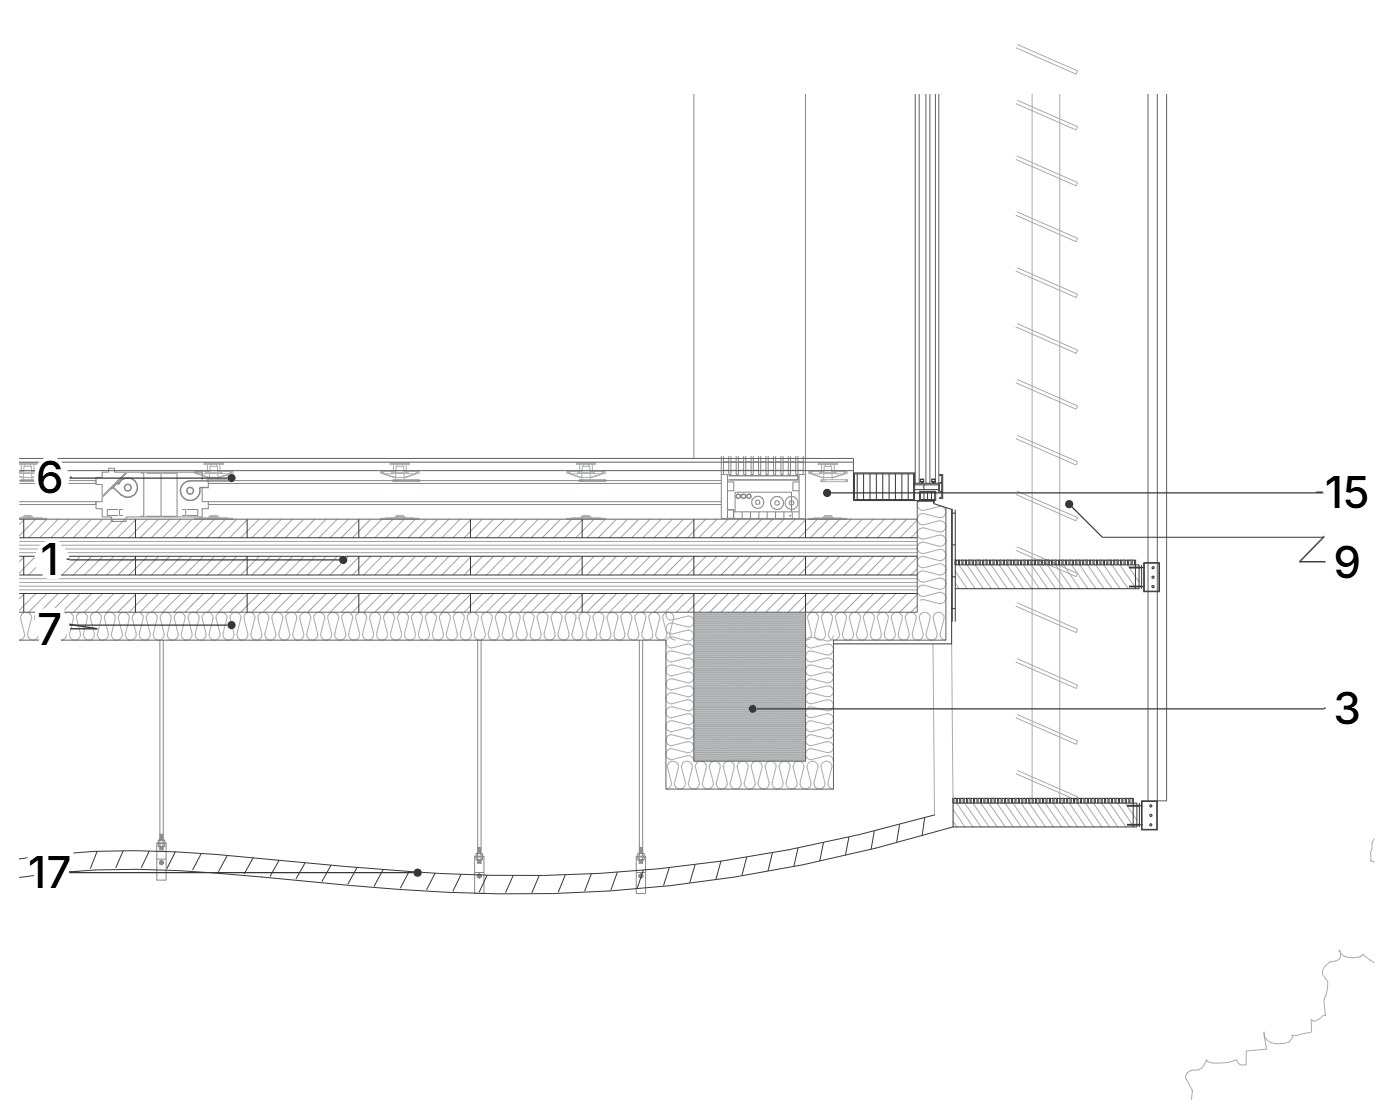
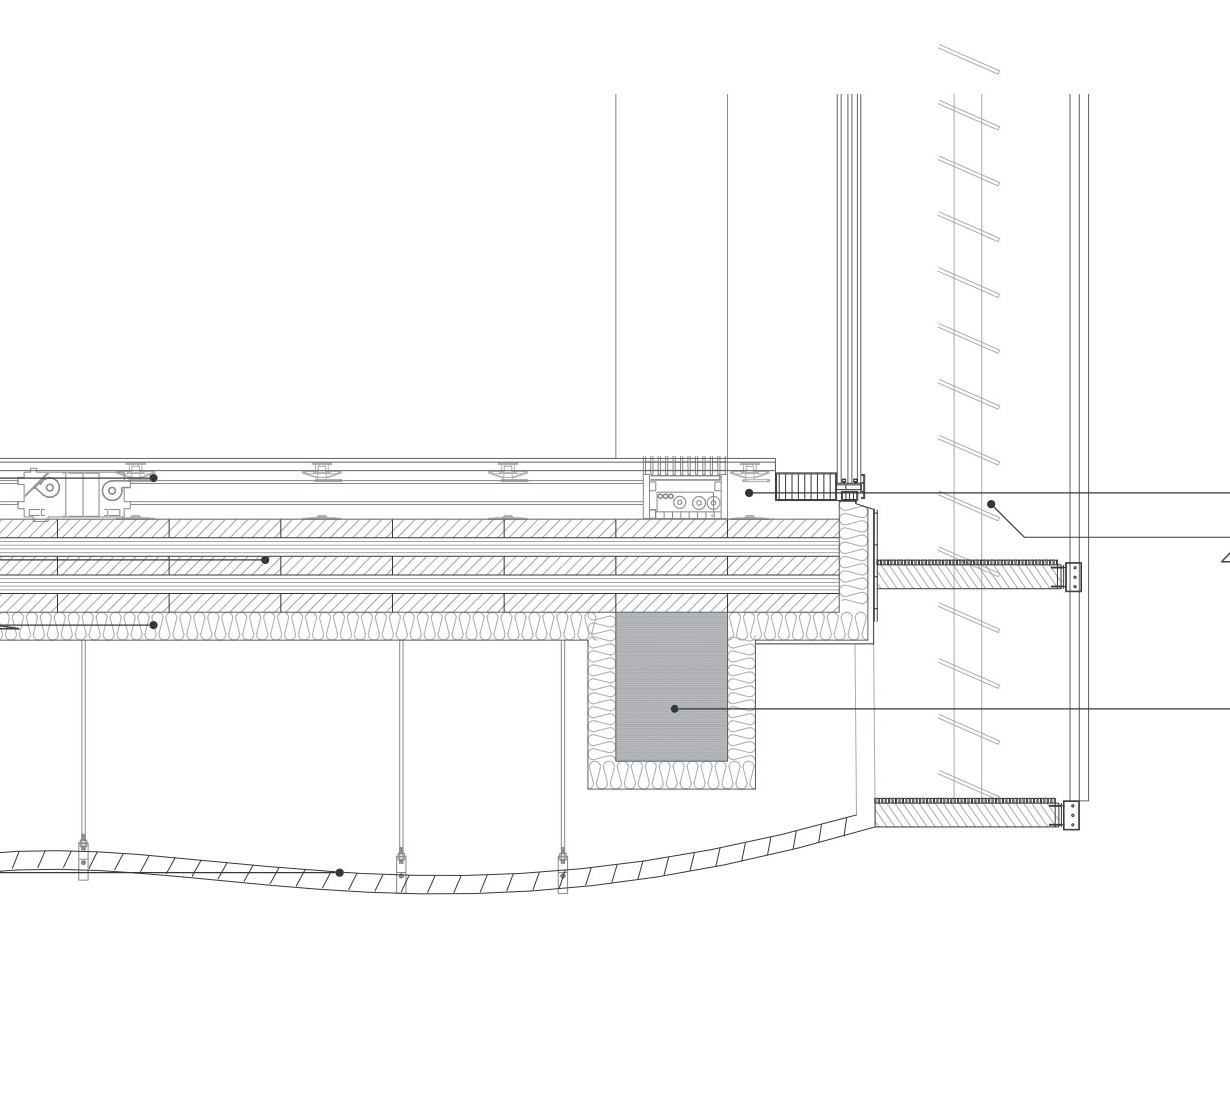
핀 #229 (Tim(team) Work 상세 단면 6장): 그림에 박힌 번호를 잘라내고 같은 크기 단면 상자(얇은 테두리)로, 화면 폭 가득 크게, 양옆으로 길게 뺀 지시선 끝에 번호·재료 이름(seq box)

diff --git a/assets/js/data.js b/assets/js/data.js
@@ -772,7 +772,7 @@ const SITE = {
       { heading: "Systems", text: "Cores, frame, slabs, skin and terraces: three concrete cores, a GLT column on every node of the 3,500 grid, one CLT slab per level, a post-and-beam curtain wall with timber slats, and the open cells planted 600 deep.", images: [{ src: "assets/img/timteam-work/systems.jpg", caption: "Systems — cores, frame, slabs, skin, terraces", r: 3.597, notes: [["01","Cores","Stairs, lifts and shafts in three concrete cores, the only concrete above ground"],["02","Frame","A GLT column on every node of the 3,500 grid and girders under each slab"],["03","Slabs","One CLT slab per level, left open where a terrace or the courtyard cuts in"],["04","Skin","A post-and-beam curtain wall, with a grating catwalk and timber slats outside"],["05","Terraces","The open cells planted 600 deep on the CLT, two helices up to the roof garden"]] }] },
       { heading: "Four Facades, Unfolded", text: "Terraces from the plans, levels from the sections: post-and-beam glazing, slab edge, glare slats and open bays, read around all four sides.", images: [{src: "assets/img/timteam-work/four-facades.jpg", caption: "Four facades, unfolded", r: 1.711} /* 핀 #228: 나무 자라는 시뮬레이션 빼고 원래 그림 */] },
       { heading: "Joints in Timber", text: "One slice from 1F to 5F around a single bay, six details redrawn at one scale, and six joints exploded — core, column, girder, arcade and facade.", images: [], keyed: {"key":{"src":"assets/img/timteam-work/one-slice-bare.jpg","r":0.878,"caption":"One slice, 1F to 5F — where each joint sits"},"items":[{"src":"assets/img/timteam-work/joint-1.jpg","r":0.744,"t":"Core to slab, panel to panel","x":48.4,"y":24,"notes":[["1","R.C core wall, 300"],["2","Cast-in steel plate"],["3","Steel seat bracket"],["4","Threaded anchor rods and nuts"],["5","Bearing pad"],["6","Buffer strip on the panel edge"],["7","CLT 250, five crossed layers"],["8","Tongue and groove, jehyeo jjokmae"],["9","Oak butterfly key, eunjang"]]},{"src":"assets/img/timteam-work/joint-2.jpg","r":0.744,"t":"Column to beam","x":55.2,"y":25.9,"notes":[["1","GLT column in four shafts, 600 × 600"],["2","Cruciform slot, sagae matchum"],["3","Dovetail mortise in each shaft head"],["4","Fork blade under the girder, galkwi"],["5","Oak pegs through head and blade, sanji"],["6","GLT double girder, 340 × 360"],["7","Dovetail tenon on each leaf, jumeokjang"]]},{"src":"assets/img/timteam-work/joint-3.jpg","r":0.744,"t":"PSL column head","x":59.8,"y":81,"notes":[["1","PSL column in two leaves"],["2","Load-assist steel plate"],["3","GLT double girder, lower"],["4","Half-lap housing, banteok matchum"],["5","Steel drift pins"],["6","GLT double girder, upper, crossing"],["7","Oak pegs through the lap"],["8","Timber louvre ceiling, cut away"]]},{"src":"assets/img/timteam-work/joint-4.jpg","r":0.744,"t":"Girder splice","x":65.5,"y":56.5,"notes":[["1","GLT girder leaf, 150 × 360"],["2","The leaf continued"],["3","Scarf faces, eotgeori"],["4","Step that stops the pieces sliding"],["5","Square oak keys, sanji, driven through"]]},{"src":"assets/img/timteam-work/joint-5.jpg","r":0.744,"t":"Arcade","x":32,"y":80,"notes":[["1","PSL column in two leaves"],["2","Springer block on the column"],["3","Mortise in the springer"],["4","Tenon at the rib foot, jangbu"],["5","Pointed GLT rib"],["6","Butterfly key across the apex"],["7","Glazing in the pointed arch"],["8","Mullion and transom, morticed"],["9","GLT double girder, 2F"]]},{"src":"assets/img/timteam-work/joint-6.jpg","r":0.744,"t":"Slab edge and facade","x":29.3,"y":13.1,"notes":[["1","CLT slab"],["2","O.A floor and timber flooring"],["3","EPS 100 insulation"],["4","Aluminium facing"],["5","Timber mullion"],["6","Transom with a tenon, jangbu"],["7","Triple glazing"],["8","Aluminium pressure plate and cap"],["9","Steel grating catwalk"],["10","Outer frame, 50 × 50 steel pipe"],["11","Timber blades against glare, tilted down and out"]]}]}, seq: {"kind":"lead","src":"assets/img/timteam-work/one-slice-bare.jpg","r":0.878,"n":9,"steps":[{"t":"One slice, 1F to 5F","s":"two bays by two, seen from inside"},{"t":"5F and 4F — the office floor","s":"frame, slab, girders and services"},{"t":"3F — the terrace","s":"dropped into the slab"},{"t":"2F — the lounge","s":"the same floor, finish taken off"},{"t":"1F — the arcade","s":"arches, wave ceiling, tree columns"}],"L":[["l",12.81,24.55,"Double-skin facade",1],["r",16.59,59,"Four-shaft GLT column 360",1],["l",18.39,24.95,"O.A floor 300",1],["r",19.7,69.5,"5F corporate workspace",1,1],["l",21.85,25.25,"CLT slab 250",1],["r",22.64,73.5,"Steel column foot, each floor",1],["l",25.32,33.6,"GLT double girders",1],["r",25.58,68.35,"Heating and cooling pipes",1],["r",28.52,62.2,"Air pipe 250",1],["l",28.78,38.5,"Flooring 10, impact 30",1],["r",31.46,69.5,"Sprinkler pipe",1],["l",32.25,48.05,"Waffle ceiling",1],["r",34.42,70.55,"4F office community",1,1],["l",35.72,39.5,"Curtain wall to the void",1],["r",48.75,54.7,"Curtain wall, lounge to terrace",2],["l",49.71,29.4,"Parapet, CLT 150, timber clad",2],["r",51.69,74,"3F lounge",2,1],["l",53.18,28.85,"Terrace soil 600",2],["r",54.63,73.85,"3F terrace",2,1],["l",56.65,24.55,"Drainage deck 100",2],["l",60.11,24.4,"CLT slab 250, dropped 575",2],["r",69.15,71.85,"2F lounge",3,1],["l",72.44,30.45,"O.A floor, 2F",3],["l",77.4,32.55,"Arches, carrying the load",4],["r",78.81,63.7,"2F and up drawn lifted 1 500",4],["l",80.85,37.85,"Wave ceiling, timber louvre",4],["r",81.77,60.45,"The louvre fanned up at the cut",4],["r",84.71,53.85,"Showroom curtain wall",4],["l",86.05,40,"PSL low-rise, tree columns",4],["r",88.94,69.8,"Four-shaft PSL column",4],["r",91.88,61.3,"1F showroom, companies",4,1],["r",95.66,53.1,"Steel column shoe",4]]} },
-      { heading: "Six Details, in Timber", text: "Six details redrawn at one scale from 1:10 — one at a time, with the materials each one holds.", images: [], seq: {"kind":"frames","r":1.235,"steps":[{"src":"assets/img/timteam-work/detail-b1.jpg","t":"B1 Slab edge and facade","s":"where the office floor meets the double skin","k":[["O.A floor 300","6"],["CLT slab 250, five layers","1"],["EPS insulation","7"],["GLT girder 340 × 360","3"],["Heating and utilities conduit","15"],["Wooden grid ceiling","16"],["Post-and-beam facade","8"],["Steel grating catwalk","9"],["Glare slats, wood","10"]]},{"src":"assets/img/timteam-work/detail-b2.jpg","t":"B2 Terrace planter","s":"soil carried on the slab","k":[["Planting layer 600","13"],["Drainage deck and membrane","14"],["CLT slab 250, five layers","1"],["EPS insulation","7"],["GLT girder 340 × 360","3"],["Wooden grid ceiling","16"],["Parapet, CLT 150 in a timber frame","11"],["Post-and-beam facade","8"]]},{"src":"assets/img/timteam-work/detail-b3.jpg","t":"B3 Terrace parapet","s":"the edge of the dropped terrace","k":[["Planting layer 600","13"],["CLT slab 250, five layers","1"],["GLT girder 340 × 360","3"],["Parapet, CLT 150 in a timber frame","11"],["Deck coping on a steel pipe","12"],["Post-and-beam facade","8"],["Steel grating catwalk","9"]]},{"src":"assets/img/timteam-work/detail-b4.jpg","t":"B4 Office to terrace","s":"the step down in the slab","k":[["O.A floor 300","6"],["CLT slab 250, five layers","1"],["CLT stacked at the step","2"],["Planting layer 600","13"],["Wooden grid ceiling","16"]]},{"src":"assets/img/timteam-work/detail-b5.jpg","t":"B5 2F slab over the arcade","s":"the floor above the louvre","k":[["O.A floor 300","6"],["CLT slab 250, five layers","1"],["EPS insulation","7"],["GLT girder 340 × 360","3"],["Heating and utilities conduit","15"],["Steel grating catwalk","9"],["Wooden louvre ceiling, a wave","17"]]},{"src":"assets/img/timteam-work/detail-b6.jpg","t":"B6 Louvre ceiling, arches","s":"the wave hung under the 2F slab","k":[["CLT slab 250, five layers","1"],["GLT girder 340 × 360","3"],["Hanger rods","18"],["Wooden louvre ceiling, a wave","17"],["Pointed GLT arch","5"],["PSL column","4"]]}]} },
+      { heading: "Six Details, in Timber", text: "Six details redrawn at one scale from 1:10 — one at a time, with the materials each one holds.", images: [], seq: {"kind":"frames","r":1.9003,"box":21,"below":true,"fade":true,"k":1.3,"steps":[{"src":"assets/img/timteam-work/detail-b1.jpg","lb":[["r",22.04,"15"],["l",22.76,"6"],["r",29.03,"9"],["l",29.39,"1"],["r",35.3,"7"],["r",41.49,"3"],["l",52.78,"16"],["r",68.73,"8"],["r",78.76,"10"]],"t":"B1 Slab edge and facade","s":"where the office floor meets the double skin","k":[["O.A floor 300","6"],["CLT slab 250, five layers","1"],["EPS insulation","7"],["GLT girder 340 × 360","3"],["Heating and utilities conduit","15"],["Wooden grid ceiling","16"],["Post-and-beam facade","8"],["Steel grating catwalk","9"],["Glare slats, wood","10"]]},{"src":"assets/img/timteam-work/detail-b2.jpg","lb":[["r",19.0,"11"],["l",30.65,"13"],["l",43.01,"14"],["l",50.0,"1"],["l",56.27,"7"],["r",58.33,"3"],["l",70.34,"16"],["r",79.03,"8"]],"t":"B2 Terrace planter","s":"soil carried on the slab","k":[["Planting layer 600","13"],["Drainage deck and membrane","14"],["CLT slab 250, five layers","1"],["EPS insulation","7"],["GLT girder 340 × 360","3"],["Wooden grid ceiling","16"],["Parapet, CLT 150 in a timber frame","11"],["Post-and-beam facade","8"]]},{"src":"assets/img/timteam-work/detail-b3.jpg","lb":[["r",6.72,"12"],["r",29.39,"11"],["l",41.04,"13"],["l",61.02,"1"],["l",70.07,"3"],["r",82.71,"8"],["r",92.74,"9"]],"t":"B3 Terrace parapet","s":"the edge of the dropped terrace","k":[["Planting layer 600","13"],["CLT slab 250, five layers","1"],["GLT girder 340 × 360","3"],["Parapet, CLT 150 in a timber frame","11"],["Deck coping on a steel pipe","12"],["Post-and-beam facade","8"],["Steel grating catwalk","9"]]},{"src":"assets/img/timteam-work/detail-b4.jpg","lb":[["l",31.45,"6"],["l",37.63,"1"],["r",38.8,"13"],["r",48.84,"2"],["r",60.48,"1"],["r",82.17,"16"]],"t":"B4 Office to terrace","s":"the step down in the slab","k":[["O.A floor 300","6"],["CLT slab 250, five layers","1"],["CLT stacked at the step","2"],["Planting layer 600","13"],["Wooden grid ceiling","16"]]},{"src":"assets/img/timteam-work/detail-b5.jpg","lb":[["l",42.74,"6"],["r",44.09,"15"],["l",50.09,"1"],["r",50.36,"9"],["l",56.36,"7"],["r",63.44,"3"],["l",78.14,"17"]],"t":"B5 2F slab over the arcade","s":"the floor above the louvre","k":[["O.A floor 300","6"],["CLT slab 250, five layers","1"],["EPS insulation","7"],["GLT girder 340 × 360","3"],["Heating and utilities conduit","15"],["Steel grating catwalk","9"],["Wooden louvre ceiling, a wave","17"]]},{"src":"assets/img/timteam-work/detail-b6.jpg","lb":[["l",17.29,"1"],["l",27.33,"3"],["r",29.03,"18"],["l",45.97,"17"],["r",67.38,"5"],["l",80.73,"4"]],"t":"B6 Louvre ceiling, arches","s":"the wave hung under the 2F slab","k":[["CLT slab 250, five layers","1"],["GLT girder 340 × 360","3"],["Hanger rods","18"],["Wooden louvre ceiling, a wave","17"],["Pointed GLT arch","5"],["PSL column","4"]]}]} },
       { heading: "Plans", text: "Nine of fourteen floors on one grid, X1–X9 by Y1–Y9 at 3,500 — from the ground up, the core stays put while each floor changes around it.", big: true, images: [], seq: {"kind":"frames","r":1.0955,"fade":true,"tag":true,"steps":[{"src":"assets/img/timteam-work/plan-1f.jpg","t":"1F ±0","s":"Public space"},{"src":"assets/img/timteam-work/plan-2f.jpg","t":"2F +5,500","s":"Community"},{"src":"assets/img/timteam-work/plan-4f.jpg","t":"4F +17,000","s":"Office community"},{"src":"assets/img/timteam-work/plan-5f.jpg","t":"5F +21,000","s":"Hot-desk office"},{"src":"assets/img/timteam-work/plan-7f.jpg","t":"7F +29,000","s":"Typical office"},{"src":"assets/img/timteam-work/plan-8f.jpg","t":"8F +33,000","s":"Typical office"},{"src":"assets/img/timteam-work/plan-9f.jpg","t":"9F +37,000","s":"Typical office"},{"src":"assets/img/timteam-work/plan-10f.jpg","t":"10F +41,000","s":"Typical office"},{"src":"assets/img/timteam-work/plan-13f.jpg","t":"13F +53,000","s":"Typical office"}]} },
       { heading: "Sections", text: "Two cuts through the tower — A–A′ through the stair core, B–B′ along the arcades.", big: true, images: [{src: "assets/img/timteam-work/sections.jpg", caption: "Sections A–A′ through the stair core (left) and B–B′ along the arcades (right) — cut lines heavy, lines beyond light", r: 1.376, tags: [[2.66,7.06,"RF +61,000","","lv"],[2.66,11.93,"14F +57,000","","lv"],[2.66,16.8,"13F +53,000","","lv"],[2.66,21.67,"12F +49,000","","lv"],[2.66,26.54,"11F +45,000","","lv"],[2.66,31.41,"10F +41,000","","lv"],[2.66,36.28,"9F +37,000","","lv"],[2.66,41.15,"8F +33,000","","lv"],[2.66,46.02,"7F +29,000","","lv"],[2.66,50.89,"6F +25,000","","lv"],[2.66,55.76,"5F +21,000","","lv"],[2.66,60.63,"4F +17,000","","lv"],[2.66,67.94,"3F +11,000","","lv"],[2.66,74.59,"2F +5,500","","lv"],[2.66,81.49,"GL ±0","","lv"],[2.66,87.99,"B1 −4,800","","lv"],[2.66,93.42,"B2 −9,300","","lv"]]}] },
       { heading: "Scenes", text: "The tower at night over the timber arcade, and the interiors it shelters.", images: [{src: "assets/img/timteam-work/exterior-arcade-rain.jpg", caption: "Timber arcade in the rain", r: 2.01}, {src: "assets/img/timteam-work/night-exterior.jpg", caption: "Exterior at night", r: 0.635}, {src: "assets/img/timteam-work/interior-hall.jpg", caption: "Hall in timber", r: 0.752}, {src: "assets/img/timteam-work/interior-arcade.jpg", caption: "Showroom under the arches", r: 1.07}, {src: "assets/img/timteam-work/interior-cafe.jpg", caption: "Cafeteria and spiral stair", r: 0.711}], stack: true, scenes: true },

diff --git a/assets/js/site.js b/assets/js/site.js
@@ -3396,10 +3396,10 @@
     const stage = q.kind === "lead" ? lead() : q.kind === "wipe"
       ? `<img class="seq-base" src="${esc(q.src)}" alt="" decoding="async"><img class="seq-top" src="${esc(q.src)}" alt="${esc(q.steps[0].t)}" decoding="async">`
       : q.steps.map((f, i) => `<img src="${esc(f.src)}" alt="${esc(f.t)}" decoding="async"${i ? "" : ' class="on"'}${f.x ? ` style="translate:${esc(f.x)} 0"` : ""}>`).join("");
-    return `<div class="seq seq-${q.kind}${q.lite ? " seq-lite" : ""}${q.fade ? " seq-fade" : ""}${q.below ? " seq-below" : ""}${q.drop ? " seq-drop" : ""}" data-seq style="--n:${q.n || N};--k:${q.k || 1}${q.cols ? `;--c:${q.cols}` : ""}${q.len ? `;--len:${q.len}` : ""}">
+    return `<div class="seq seq-${q.kind}${q.lite ? " seq-lite" : ""}${q.fade ? " seq-fade" : ""}${q.below ? " seq-below" : ""}${q.drop ? " seq-drop" : ""}${q.box ? " seq-box" : ""}" data-seq style="--n:${q.n || N};--k:${q.k || 1}${q.box ? `;--sbx:${q.box}%` : ""}${q.cols ? `;--c:${q.cols}` : ""}${q.len ? `;--len:${q.len}` : ""}">
       <div class="seq-pin">
         ${q.tl ? `<div class="seq-tl" aria-hidden="true">${q.tl.bands.map(([nm, a, b], bi) => `<div class="tl-b" style="flex:${b - a}"><span class="tl-n">${esc(nm)}</span><div class="tl-r">${q.steps.map((f, i) => f.tm && f.tm[0] === bi ? `<i class="tl-s${i ? "" : " on"}" data-i="${i}" style="left:${((f.tm[1] - a) / (b - a)) * 100}%;width:${((f.tm[2] - f.tm[1]) / (b - a)) * 100}%"><em>${"•".repeat(f.tm[3])}</em></i>` : "").join("")}</div><span class="tl-h"><b>${hmTl(a)}</b><b>${hmTl(b)}</b></span></div>`).join("")}</div>` : ""}
-        <div class="seq-stage media" style="aspect-ratio:${q.r};--r:${q.r}">${stage}${q.kind === "frames" ? q.steps.map((f, i) => (f.tags || []).map(([x, y, t, al, k]) => `<span class="ftag seq-ft${al ? ` ${al}` : ""}${k ? ` ${k}` : ""}${i ? "" : " on"}" data-i="${i}" style="left:${x}%;top:${y}%">${esc(t)}</span>`).join("")).join("") : ""}${q.tag ? `<p class="ssn-tag seq-tag"><b>${esc(q.steps[0].t)}</b><span>${esc(q.steps[0].s || "")}</span></p>` : ""}</div>
+        <div class="seq-stage media" style="aspect-ratio:${q.r};--r:${q.r}">${stage}${q.box ? `<i class="sbx-fr" aria-hidden="true"></i>${q.steps.map((f, i) => (f.lb || []).map(([sd, y, n]) => `<span class="seq-ft sbx-lb ${sd}${i ? "" : " on"}" data-i="${i}" style="top:${y}%"><b class="num">${esc(n)}</b>${esc(((f.k || []).find((r) => r[1] === n) || [""])[0])}</span>`).join("")).join("")}` : ""}${q.kind === "frames" ? q.steps.map((f, i) => (f.tags || []).map(([x, y, t, al, k]) => `<span class="ftag seq-ft${al ? ` ${al}` : ""}${k ? ` ${k}` : ""}${i ? "" : " on"}" data-i="${i}" style="left:${x}%;top:${y}%">${esc(t)}</span>`).join("")).join("") : ""}${q.tag ? `<p class="ssn-tag seq-tag"><b>${esc(q.steps[0].t)}</b><span>${esc(q.steps[0].s || "")}</span></p>` : ""}</div>
         <div class="seq-side">
           <p class="seq-ctr num"><b>01</b> / ${pad(N)}</p>
           <ol>${q.steps.map((f, i) => `<li${i ? "" : ' class="on"'}><span class="num mid">${pad(i + 1)}</span><div><b>${esc(f.t)}</b> <span class="mid">${esc(f.s || "")}</span>${f.d ? `<p>${esc(f.d)}</p>` : ""}${f.j ? `<figure class="seq-jd"><img src="${esc(f.j.src)}" alt="${esc(f.j.t)}" decoding="async" loading="lazy"><figcaption><b>${esc(f.j.t)}</b>${f.j.s ? ` <span class="mid">${esc(f.j.s)}</span>` : ""}</figcaption></figure>` : ""}${f.k ? `<dl>${f.k.map(([a, b]) => `<div><dt>${esc(a)}</dt><dd class="num">${esc(b)}</dd></div>`).join("")}</dl>` : ""}</div></li>`).join("")}</ol>

diff --git a/assets/css/site.css b/assets/css/site.css
@@ -2486,3 +2486,22 @@ html.sb-on { overflow-x: hidden; }
   .fnotes.ld-all b { font-size: var(--t-xs); font-weight: 500; }
   .fnotes.ld-all li > span { color: var(--mid); }
 }
+
+/* 핀 #229: 단면 상자(seq box) — 그림은 가운데 얇은 테두리 상자, 번호·이름은 양옆으로 길게 뺀 지시선 끝에 */
+.seq-box .seq-stage img { inset: 0 var(--sbx); width: auto; height: 100%; }
+.seq-box .sbx-fr { position: absolute; inset: 0 var(--sbx); border: .5px solid var(--ink); opacity: .55; pointer-events: none; z-index: 4; }
+.seq-box .sbx-lb { position: absolute; z-index: 5; display: flex; gap: 6px; align-items: baseline; font-size: var(--t-xs); line-height: 1.2; white-space: nowrap; transform: translateY(-50%); opacity: 0; transition: opacity .4s; }
+.seq-box .sbx-lb.on { opacity: 1; }
+.seq-box .sbx-lb b { font-weight: 500; }
+.seq-box .sbx-lb.l { right: calc(100% - var(--sbx)); padding-right: 56px; flex-direction: row-reverse; }
+.seq-box .sbx-lb.r { left: calc(100% - var(--sbx)); padding-left: 56px; }
+.seq-box .sbx-lb::after { content: ""; position: absolute; top: 50%; width: 50px; height: 0; border-top: .5px solid var(--ink); }
+.seq-box .sbx-lb.l::after { right: 0; }
+.seq-box .sbx-lb.r::after { left: 0; }
+.seq-box .seq-side dl { display: none !important; }
+@media (max-width: 760px) {
+  .seq-box .sbx-lb.l { padding-right: 14px; } .seq-box .sbx-lb.r { padding-left: 14px; }
+  .seq-box .sbx-lb::after { width: 10px; }
+  .seq-box .sbx-lb { font-size: 9px; white-space: normal; max-width: calc(var(--sbx) - 2px); }
+}
+.cx-body .pj-sec:has(.seq-box) { --bx: 0%; --bw: 100%; }
